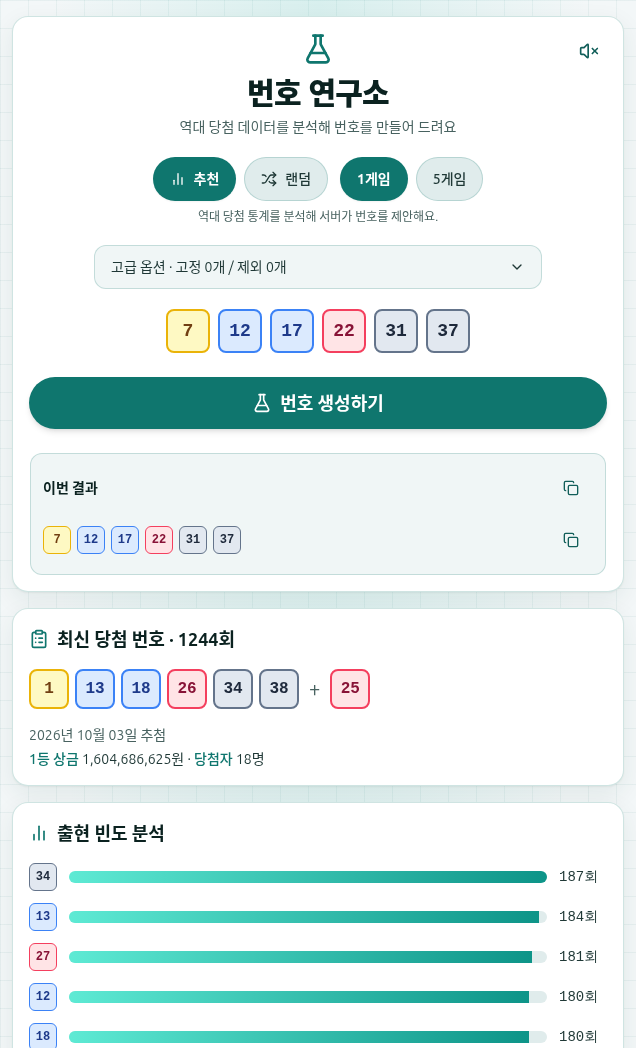
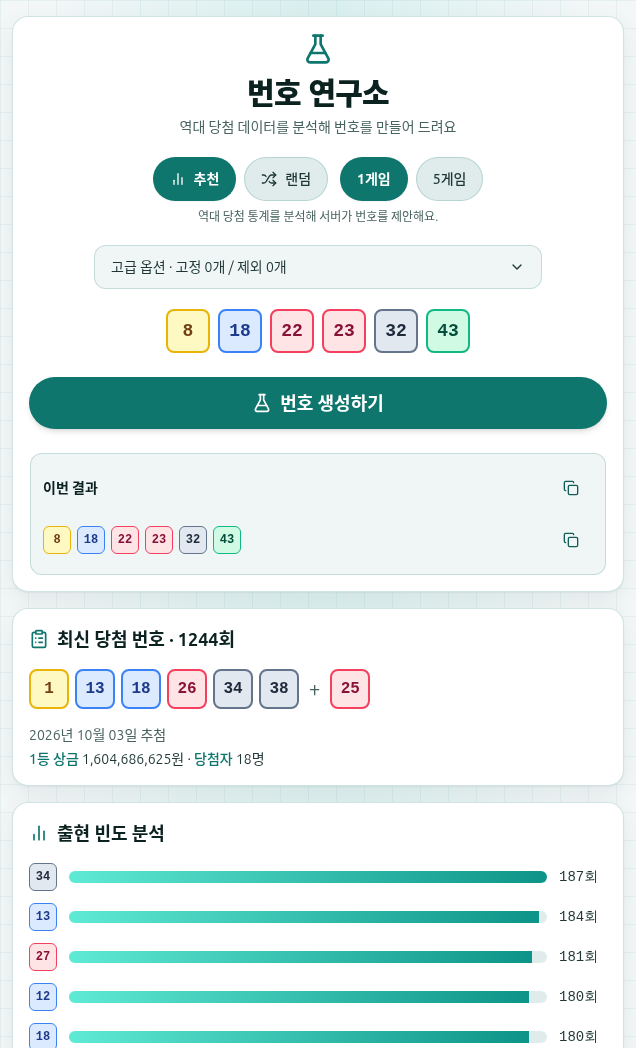
feat: 효과음 기능 제거, 로고의 번호 공을 시료 타일 모양으로 변경
- 효과음 켜기/끄기 버튼과 sound.js 제거(슬롯머신 테마용이었고 거의 들리지 않았음)
- 로고의 구형 공 3개를 앱의 시료 타일(7, 17, 26)로 교체
- 등록용 스크린샷 갱신(상단 버튼 제거 반영)

diff --git a/src/components/Generator.js b/src/components/Generator.js
@@ -1,13 +1,12 @@
 import React, { useCallback, useEffect, useRef, useState } from 'react';
 import axios from 'axios';
-import { BarChart2, FlaskConical, Shuffle, Volume2, VolumeX, Trash2 } from 'lucide-react';
+import { BarChart2, FlaskConical, Shuffle, Trash2 } from 'lucide-react';
 import Card from './Card';
 import ToggleButton from './ToggleButton';
 import NumberBoard from './NumberBoard';
 import NumberPicker from './NumberPicker';
 import Ticket from './Ticket';
 import { useLocalStorage } from '../hooks/useLocalStorage';
-import { playDone, playStop } from '../utils/sound';
 import { AD_TYPE, adController } from '../utils/ads';
 import {
   PICK_COUNT,
@@ -41,7 +40,6 @@ const Generator = () => {
   const [spinning, setSpinning] = useState(Array(PICK_COUNT).fill(false));
   const [current, setCurrent] = useState(null);
   const [history, setHistory] = useLocalStorage('lotto-history', []);
-  const [soundOn, setSoundOn] = useLocalStorage('lotto-sound', false);
   const [toast, setToast] = useState('');
   const [announce, setAnnounce] = useState('');
   const [adBusy, setAdBusy] = useState(false);
@@ -70,8 +68,7 @@ const Generator = () => {
     setCurrent(entry);
     setHistory((prev) => [entry, ...prev].slice(0, MAX_HISTORY));
     setAnnounce(`생성된 번호. ${formatTicket(sets)}`);
-    if (soundOn) playDone();
-  }, [setHistory, soundOn]);
+  }, [setHistory]);
 
   const startGeneration = useCallback(() => {
     setCurrent(null);
@@ -89,7 +86,6 @@ const Generator = () => {
       sets[0].forEach((_, index) => {
         setTimeout(() => {
           setSpinning((prev) => prev.map((s, i) => (i === index ? false : s)));
-          if (soundOn) playStop();
           if (index === sets[0].length - 1) finish(sets);
         }, index * REEL_STOP_INTERVAL);
       });
@@ -98,7 +94,7 @@ const Generator = () => {
       setSpinning(Array(PICK_COUNT).fill(false));
       showToast('번호를 불러오지 못했어요. 잠시 후 다시 시도해 주세요.');
     });
-  }, [mode, games, options, soundOn, finish, showToast]);
+  }, [mode, games, options, finish, showToast]);
 
   // 번호 생성을 누르면 (설정된 경우) 광고를 먼저 보여 주고, 끝나면 생성을 시작한다.
   // 광고가 준비되지 않았거나 실패하면 광고 없이 바로 생성한다.
@@ -155,15 +151,6 @@ const Generator = () => {
 
   return (
     <Card className="text-center relative overflow-hidden">
-      <button
-        onClick={() => setSoundOn(!soundOn)}
-        aria-pressed={soundOn}
-        aria-label={soundOn ? '효과음 끄기' : '효과음 켜기'}
-        className="absolute top-3 right-3 min-w-[44px] min-h-[44px] flex items-center justify-center rounded-full text-accent-strong hover:bg-accent-soft focus:outline-none focus-visible:ring-2 focus-visible:ring-focus"
-      >
-        {soundOn ? <Volume2 className="w-5 h-5" /> : <VolumeX className="w-5 h-5" />}
-      </button>
-
       <div className="flex justify-center mb-2 text-accent" aria-hidden="true">
         <FlaskConical className="w-8 h-8 sm:w-10 sm:h-10" />
       </div>
@@ -199,7 +186,7 @@ const Generator = () => {
         error={optionsError}
       />
 
-      <NumberBoard values={reelValues} spinning={spinning} runId={runId} onSpin={handleSpin} soundOn={soundOn} busy={adBusy} adNotice={adNotice} />
+      <NumberBoard values={reelValues} spinning={spinning} runId={runId} onSpin={handleSpin} busy={adBusy} adNotice={adNotice} />
 
       {current && (
         <div className="mt-6 max-w-xl mx-auto">

diff --git a/src/components/NumberBoard.js b/src/components/NumberBoard.js
@@ -1,7 +1,6 @@
 import React, { useEffect, useState } from 'react';
 import { FlaskConical, Loader2 } from 'lucide-react';
 import { LOTTO_MAX, PICK_COUNT } from '../utils/lotto';
-import { playTick } from '../utils/sound';
 import NumberBall from './NumberBall';
 
 const prefersReducedMotion = () =>
@@ -28,14 +27,8 @@ const Slot = ({ value, spinning, runId }) => {
   );
 };
 
-const NumberBoard = ({ values, spinning, runId, onSpin, soundOn, busy = false, adNotice = '' }) => {
+const NumberBoard = ({ values, spinning, runId, onSpin, busy = false, adNotice = '' }) => {
   const isGenerating = spinning.some(Boolean);
-
-  useEffect(() => {
-    if (!soundOn || !isGenerating) return undefined;
-    const id = setInterval(playTick, 110);
-    return () => clearInterval(id);
-  }, [soundOn, isGenerating]);
 
   return (
     <>

diff --git a/store-assets/make_logo.py b/store-assets/make_logo.py
@@ -43,12 +43,22 @@ inner = flask.filter(ImageFilter.GaussianBlur(22 * S / 1.645)).point(lambda v: 2
 liquid = Image.composite(liquid, Image.new("L", (W, W), 0), inner)
 img.paste(Image.new("RGB", (W, W), LIQUID), mask=liquid)
 
-# 번호 공 3개 (앱의 공 색: 노랑, 파랑, 로즈)
+# 번호 타일 3개 (앱의 시료 타일과 같은 모양: 연한 바탕, 같은 계열의 테두리, 고정폭 숫자)
+from PIL import ImageFont
 draw = ImageDraw.Draw(img, "RGBA")
-balls = [((232, 440, 40), (250, 204, 21)), ((304, 412, 40), (59, 130, 246)), ((374, 442, 40), (244, 63, 94))]
-for (cx, cy, r), color in balls:
-    draw.ellipse([P(cx - r, cy - r), P(cx + r, cy + r)], fill=color + (255,))
-    draw.ellipse([P(cx - r * 0.55, cy - r * 0.62), P(cx - r * 0.05, cy - r * 0.2)], fill=(255, 255, 255, 120))
+try:
+    font = ImageFont.truetype("/usr/share/fonts/truetype/dejavu/DejaVuSansMono-Bold.ttf", 36 * S)
+except OSError:
+    font = ImageFont.load_default()
+tiles = [
+    (196, 410, "7", (254, 249, 195), (234, 179, 8), (113, 63, 18)),     # 1~10 노랑
+    (268, 392, "17", (219, 234, 254), (59, 130, 246), (30, 58, 138)),   # 11~20 파랑
+    (340, 410, "26", (255, 228, 230), (244, 63, 94), (136, 19, 55)),    # 21~30 로즈
+]
+T = 64
+for x, y, label, fill, border, ink in tiles:
+    draw.rounded_rectangle([P(x, y), P(x + T, y + T)], radius=11 * S, fill=fill + (255,), outline=border + (255,), width=5 * S)
+    draw.text(P(x + T / 2, y + T / 2 + 1), label, font=font, fill=ink + (255,), anchor="mm")
 
 # 위로 올라오는 기포(분석 중인 느낌)
 for cx, cy, r in [(300, 306, 11), (320, 262, 8), (290, 226, 6), (310, 188, 4.5)]:
